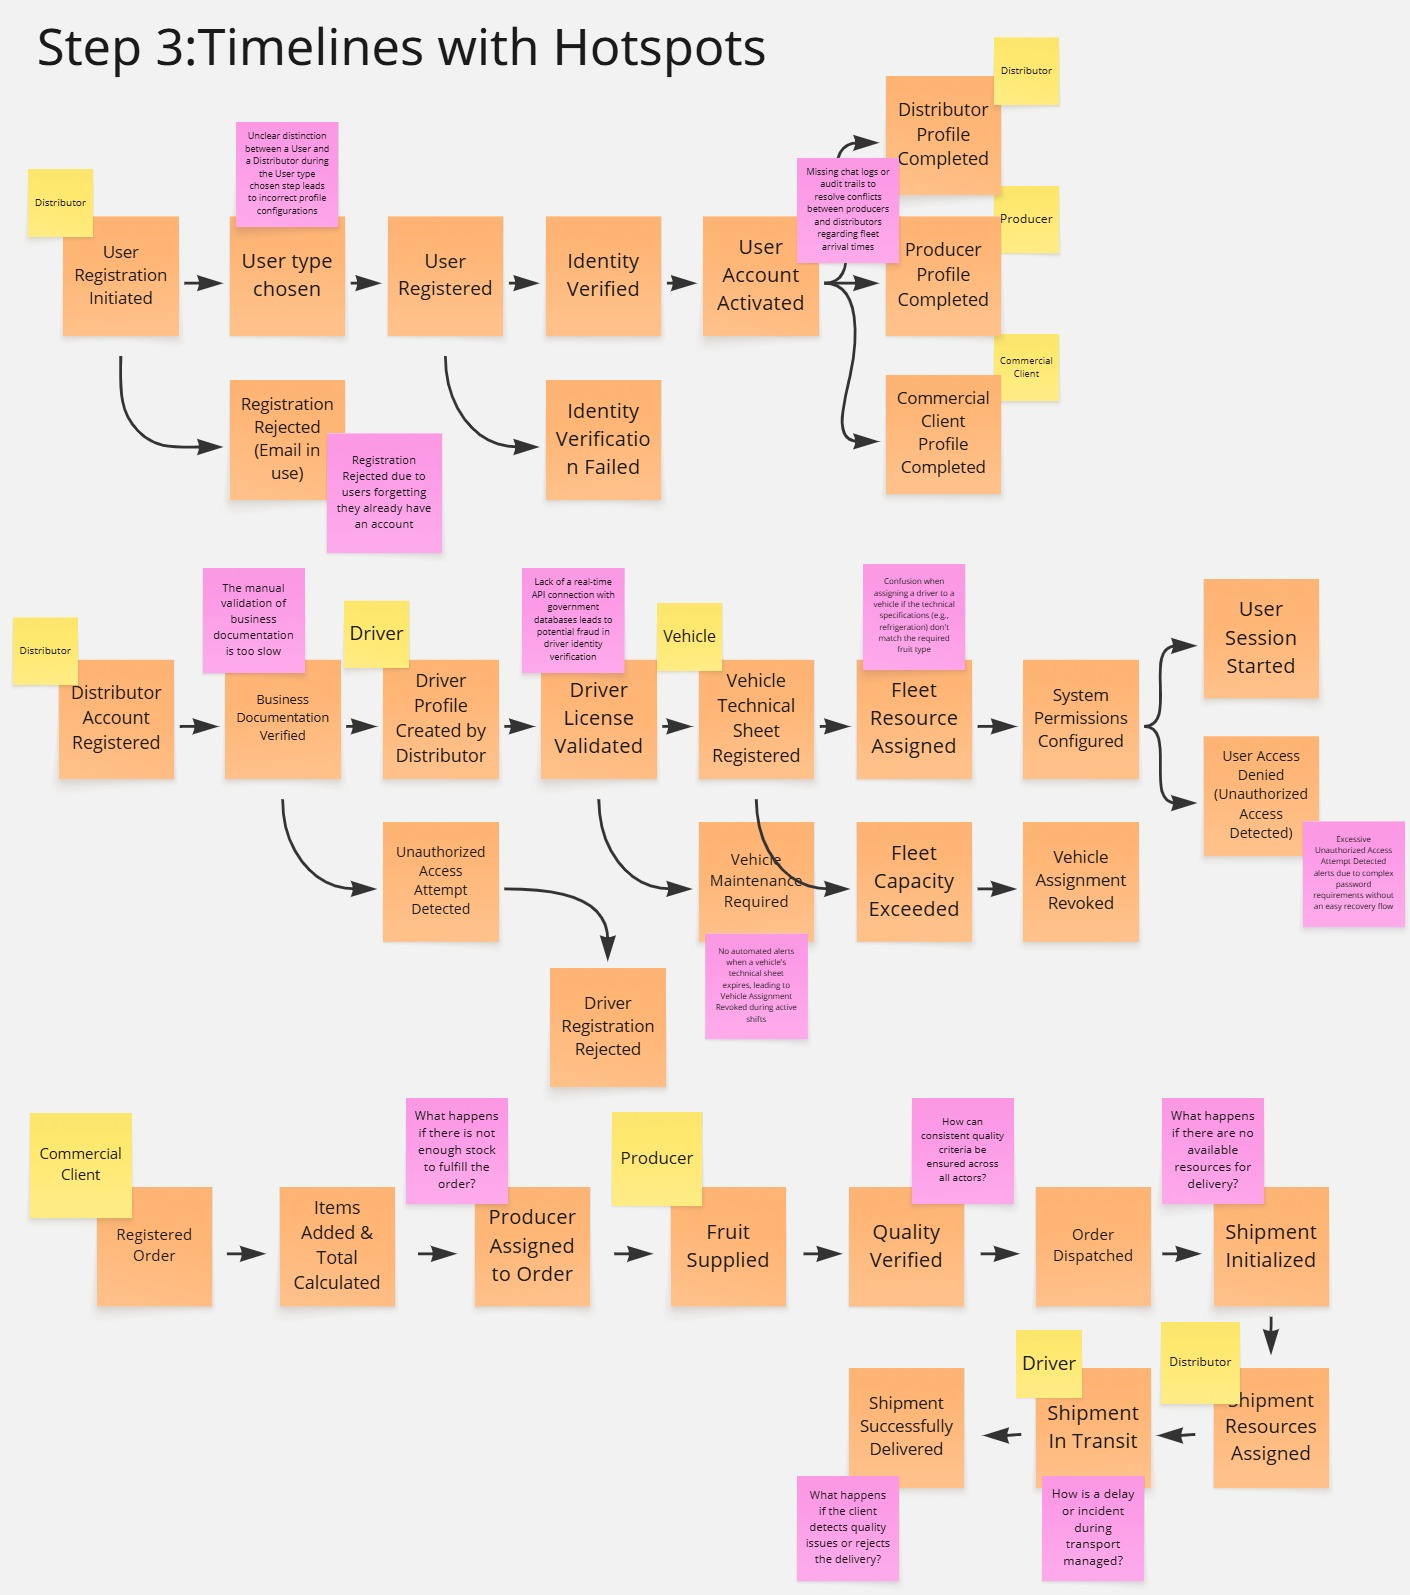
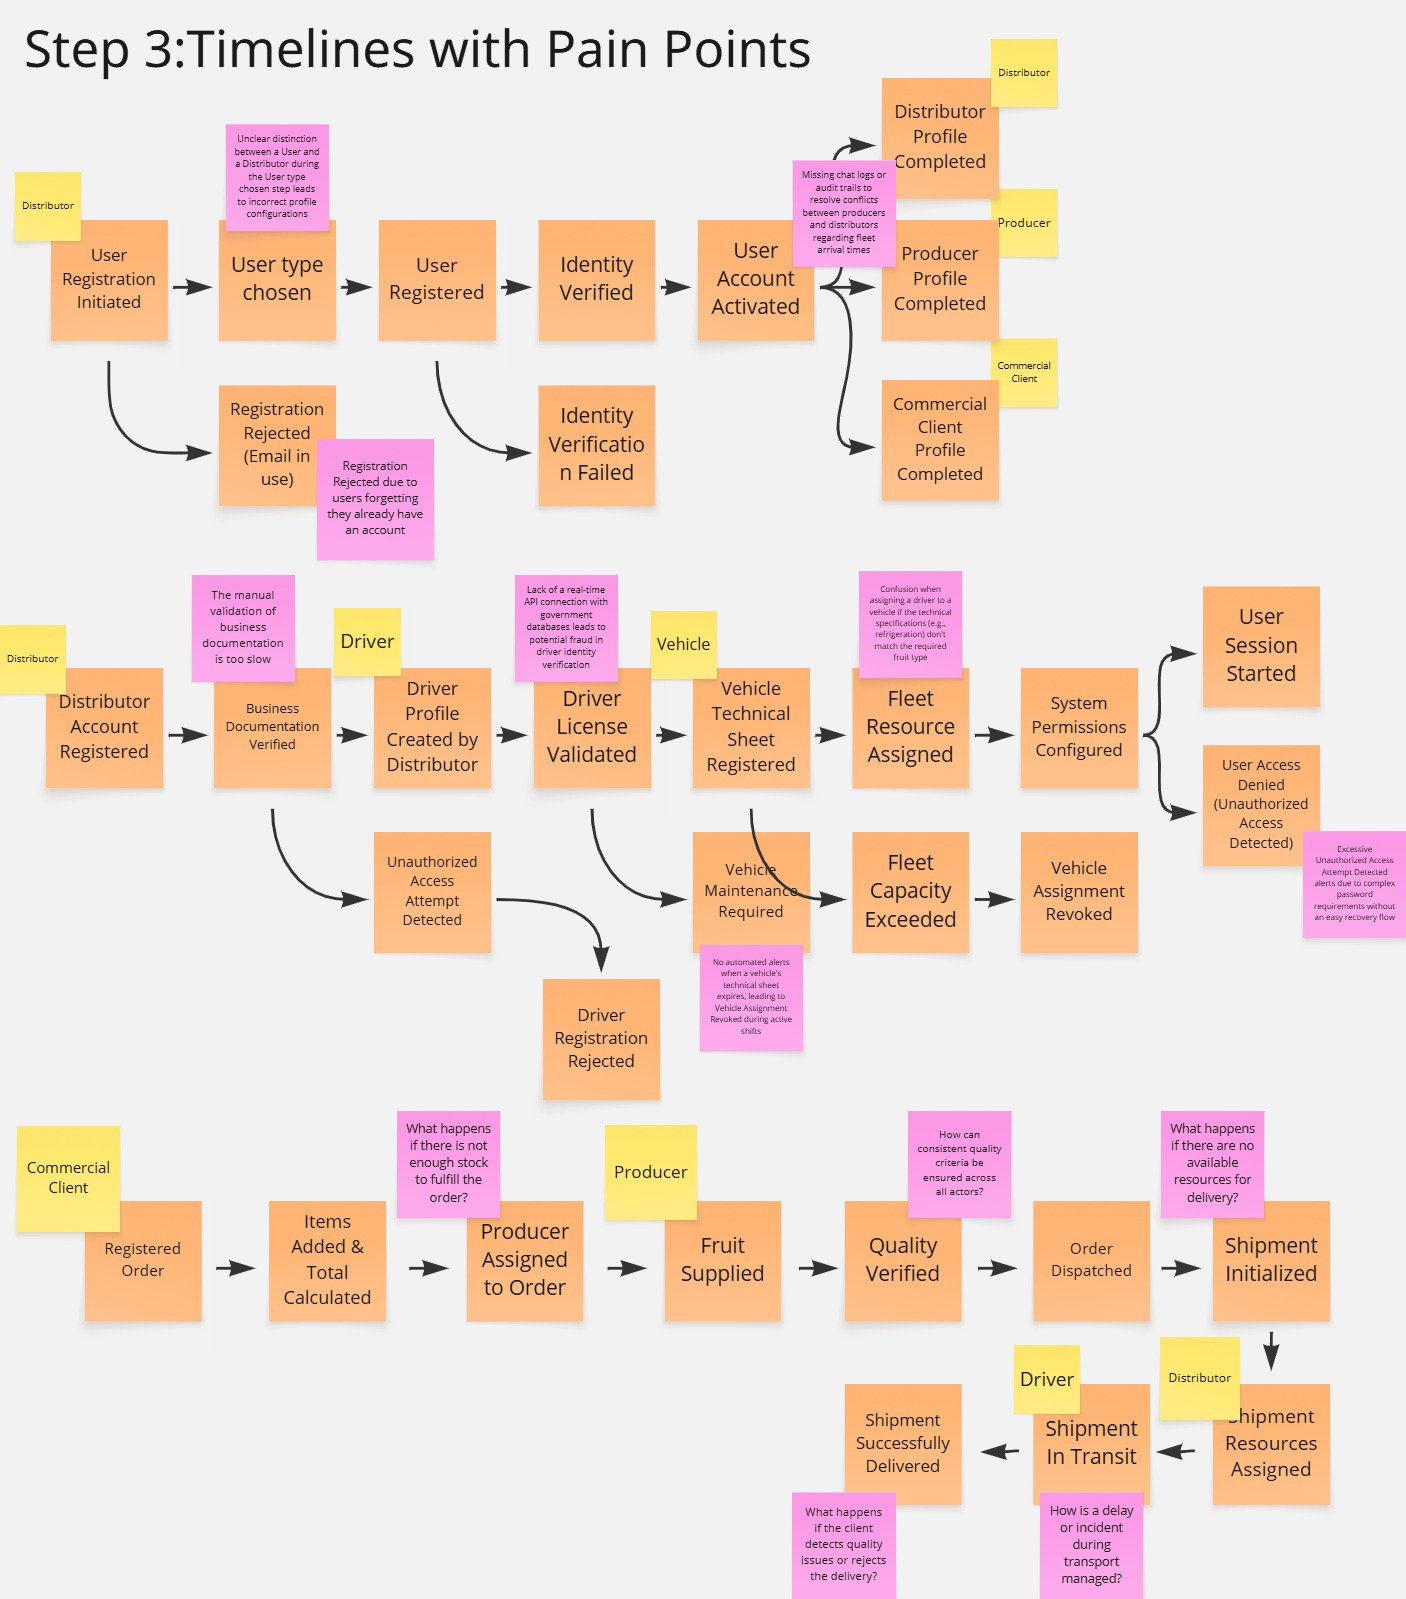
feat(25-chapter_2.5): Upload of EventStorming

diff --git a/report/front-matter/25-chapter_2.5.md b/report/front-matter/25-chapter_2.5.md
@@ -1,0 +1,128 @@
+### 2.5. Strategic-Level Domain-Driven Design
+
+#### 2.5.1. EventStorming
+
+Como parte del Strategic-Level Domain-Driven Design de FruitLogix, el equipo continuó el proceso de EventStorming iniciado previamente durante el Big Picture EventStorming. El propósito de esta etapa es profundizar progresivamente en el dominio, partiendo de los principales eventos del negocio para posteriormente identificar acciones, reglas, información requerida, sistemas externos, aggregates y límites relevantes dentro del modelo.
+
+Los primeros tres pasos corresponden a la exploración general desarrollada previamente, donde se identificaron los eventos del dominio, se organizaron en líneas de tiempo y se reconocieron los principales Pain Points. A partir de esta base, el modelo se refinó mediante Pivotal Points, Commands, Policies, Read Models, External Systems, Aggregates y finalmente Bounded Contexts.
+
+##### Step 1: Unstructured Exploration
+
+El proceso inició con una exploración desestructurada de los principales Eventos de Dominio de FruitLogix. En esta etapa se identificaron eventos relacionados con el registro y configuración de usuarios, la gestión de perfiles y flota, así como eventos del flujo central del negocio relacionados con pedidos, abastecimiento, control de calidad, despacho y entregas.
+
+Esta exploración permitió representar el dominio sin establecer inicialmente restricciones sobre el orden de los eventos o sobre los límites de los diferentes procesos.
+
+<img alt="EventStormingStep1" height="200%" src="../assets/miro/Big_Picture_Event_Storming_Paso1.jpg" width="500"/>
+
+##### Step 2: Timelines
+
+En el segundo paso, los Eventos de Dominio identificados fueron organizados cronológicamente para representar las principales historias del negocio. También se incorporaron los actores responsables o participantes en diferentes momentos del proceso, como Commercial Client, Distributor, Producer y Driver.
+
+La organización temporal permitió observar tanto los procesos relacionados con registro, perfiles y gestión de recursos, como el flujo principal que conecta la creación de un pedido con su abastecimiento, verificación de calidad, despacho, transporte y entrega.
+
+<img alt="EventStormingStep2" height="200%" src="../assets/miro/Big_Picture_Event_Storming_Paso2.jpg" width="550"/>
+
+##### Step 3: Timelines with Pain Points
+
+Una vez definidas las principales líneas de tiempo, se identificaron Pain Points asociados con situaciones problemáticas o incertidumbres relevantes del dominio. Entre ellos se encuentran dificultades relacionadas con validaciones manuales, disponibilidad de productos, consistencia de los criterios de calidad, disponibilidad de recursos logísticos, incidentes durante el transporte y posibles rechazos durante la entrega.
+
+La identificación de estos puntos permitió reconocer áreas del dominio que requerían mayor análisis antes de continuar con el refinamiento del EventStorm.
+
+<img alt="EventStormingStep3" height="200%" src="../assets/miro/Big_Picture_Event_Storming_Paso3.jpg" width="550"/>
+
+Los tres primeros pasos permitieron construir una visión general del dominio de FruitLogix. A partir de esta base, el equipo continuó el proceso de refinamiento mediante la identificación de Pivotal Points, que permiten reconocer cambios significativos dentro de los flujos analizados.
+
+##### Step 4: Pivotal Points
+
+En este paso se incorporaron Pivotal Points con el propósito de identificar momentos relevantes donde cambia la naturaleza o responsabilidad del proceso representado en el EventStorm. Estos puntos permiten comenzar a reconocer posibles límites naturales dentro del dominio sin definir todavía de manera definitiva los Bounded Contexts.
+
+En el flujo analizado se observa una transición desde el proceso general de registro, verificación de identidad y activación de la cuenta hacia procesos más específicos relacionados con la configuración de los perfiles de los diferentes actores. Posteriormente, el flujo continúa hacia responsabilidades particulares del distribuidor relacionadas con el registro de su cuenta y la administración de recursos logísticos, como conductores y vehículos.
+
+La identificación de estos cambios permite separar conceptualmente responsabilidades que, aunque colaboran dentro de FruitLogix, responden a necesidades diferentes del negocio. Estos Pivotal Points serán utilizados posteriormente como una de las evidencias para el proceso de Candidate Context Discovery.
+
+<img alt="EventStormingStep4" height="200%" src="../assets/miro/Big_Picture_Event_Storming_Paso4.jpg" width="650"/>
+
+##### Step 5: Commands
+
+En este paso se incorporaron Commands al EventStorm con el propósito de representar las acciones o intenciones que provocan cambios relevantes dentro del dominio. Estos elementos, representados mediante notas azules, permiten comprender qué acciones preceden a determinados Eventos de Dominio y ayudan a hacer explícitas las responsabilidades existentes dentro de los flujos analizados.
+
+En el proceso de registro y configuración de usuarios se identificaron Commands como `Register new User`, `Assign Role & Permissions` y `Validate Documentation`, los cuales se relacionan con eventos posteriores como `User Registration Initiated`, `User Registered` e `Identity Verified`. Asimismo, se incorporaron acciones específicas relacionadas con la creación y configuración de perfiles.
+
+En el flujo asociado a la gestión de recursos logísticos se identificaron Commands como `Add Driver to Fleet` y `Register Vehicle`. Estas acciones permiten relacionar las decisiones del distribuidor con eventos como `Driver Profile Created by Distributor` y `Vehicle Technical Sheet Registered`, haciendo más explícita la secuencia que permite incorporar conductores y vehículos a la operación.
+
+La incorporación de Commands permitió enriquecer el EventStorm al establecer una relación más clara entre las acciones realizadas por los actores y los cambios que ocurren posteriormente dentro del dominio. Este refinamiento sirve además como base para identificar las reglas y decisiones que serán representadas mediante Policies en el siguiente paso.
+
+<img alt="EventStormingStep5" height="200%" src="../assets/miro/Big_Picture_Event_Storming_Paso5.jpg" width="650"/>
+
+##### Step 6: Policies
+
+En este paso se incorporaron Policies al EventStorm con el propósito de representar reglas y condiciones que determinan cómo deben ejecutarse determinadas acciones dentro del dominio. Estas políticas, representadas mediante notas moradas, permiten hacer explícitas restricciones que deben cumplirse antes de que ciertos procesos puedan continuar.
+
+Dentro del flujo relacionado con la gestión de conductores se identificó la política `A Driver cannot be activated unless their LicenseNumber is verified and current`. Esta regla establece que un conductor no puede ser habilitado dentro de la operación si previamente no se ha comprobado que su licencia sea válida y se encuentre vigente, reforzando así la consistencia del proceso de incorporación de recursos de transporte.
+
+Asimismo, en el flujo de registro de vehículos se incorporó la política `Whenever a Vehicle is registered, its CapacityKg must be validated against the VehicleType standards`. Esta condición establece que, al registrar un vehículo, su capacidad debe ser validada de acuerdo con las características o restricciones correspondientes a su tipo antes de considerarlo disponible para la operación.
+
+La incorporación de Policies permitió complementar los Commands y Domain Events previamente identificados, haciendo explícitas reglas que condicionan el comportamiento del dominio. Estas reglas ayudan a comprender con mayor precisión las responsabilidades asociadas a la gestión de perfiles y recursos logísticos, y sirven como base para identificar posteriormente la información que los actores necesitan consultar mediante Read Models.
+
+<img alt="EventStormingStep6" height="200%" src="../assets/miro/Big_Picture_Event_Storming_Paso6.jpg" width="650"/>
+
+##### Step 7: Read Models
+
+En este paso se incorporaron Read Models al EventStorm con el propósito de representar la información que los actores necesitan consultar para comprender el estado actual del dominio y tomar decisiones durante los diferentes procesos. Estos elementos, representados mediante notas verdes, permiten visualizar qué información debe estar disponible a partir de los eventos y reglas previamente identificados.
+
+Dentro del proceso de incorporación de usuarios se identificó el Read Model `Registration Forms`, que reúne la información necesaria para iniciar y completar el registro de un nuevo usuario. Asimismo, se incorporó `Verification Status View`, que permite consultar el estado asociado al proceso de verificación de identidad y documentación.
+
+En el flujo relacionado con la gestión de recursos logísticos se identificó `Driver Profile Card`, que representa la información relevante de un conductor registrado dentro de la operación. También se incorporó `Fleet Management Dashboard`, orientado a proporcionar una vista consolidada sobre los recursos de flota y su situación dentro del proceso operativo.
+
+La incorporación de Read Models permitió complementar los Commands, Domain Events y Policies previamente identificados, mostrando qué información resulta necesaria para que los actores puedan continuar sus actividades y tomar decisiones. Este refinamiento contribuye a comprender mejor las necesidades de consulta del dominio antes de identificar las dependencias con sistemas externos en el siguiente paso.
+
+<img alt="EventStormingStep7" height="200%" src="../assets/miro/Big_Picture_Event_Storming_Paso7.jpg" width="650"/>
+
+##### Step 8: External Systems
+
+En este paso se incorporaron External Systems al EventStorm con el propósito de identificar dependencias externas que pueden participar en determinados procesos del dominio. Estos elementos permiten distinguir aquellas responsabilidades que requieren información o servicios proporcionados fuera de FruitLogix de las capacidades gestionadas directamente por la solución.
+
+Dentro del proceso relacionado con la identidad y autenticación de usuarios se modeló `Auth0 / Firebase Auth` como un servicio externo considerado durante el análisis para apoyar actividades relacionadas con el acceso y la seguridad de los usuarios.
+
+Asimismo, en el flujo relacionado con conductores y vehículos se identificó `Vehicle & License API` como una dependencia externa orientada a proporcionar información necesaria para la validación de licencias y características asociadas a los vehículos antes de su incorporación a la operación logística.
+
+Este refinamiento contribuye a delimitar con mayor claridad las responsabilidades internas y externas del sistema antes de continuar con la identificación de Aggregates.
+
+<img alt="EventStormingStep8" height="200%" src="../assets/miro/Big_Picture_Event_Storming_Paso8.jpg" width="650"/>
+
+##### Step 9: Aggregates
+
+En este paso se incorporaron Aggregates al EventStorm con el propósito de identificar conjuntos de elementos del dominio que deben mantenerse consistentes durante la ejecución de determinadas operaciones. Los Aggregates permiten comenzar a reconocer qué información y reglas deben ser gestionadas como una unidad dentro de los procesos analizados.
+
+En el flujo relacionado con la gestión de perfiles se identificó `Distributor` como Aggregate asociado a la información y responsabilidades del distribuidor dentro de la operación. Su incorporación permite relacionar la configuración de los diferentes perfiles y las acciones posteriores que dependen de la participación del distribuidor en FruitLogix.
+
+La identificación de este Aggregate constituye un refinamiento adicional del modelo, ya que permite pasar de una visión centrada únicamente en eventos, acciones y reglas hacia una representación donde también se consideran unidades de consistencia del dominio.
+
+Este paso no busca definir todavía de manera definitiva la estructura interna de cada Bounded Context. Los Aggregates identificados durante el EventStorming sirven como una de las evidencias utilizadas posteriormente para reconocer límites y responsabilidades dentro del dominio. Asimismo, otros Aggregates asociados a procesos como pedidos, calidad y logística son desarrollados con mayor detalle en los flujos específicos correspondientes a dichas áreas. Los demás elementos presentes en el diagrama se conservan como parte del modelado progresivo realizado durante las etapas anteriores.
+
+<img alt="EventStormingStep9" height="200%" src="../assets/miro/Big_Picture_Event_Storming_Paso9.jpg" width="650"/>
+
+##### Step 10: Bounded Contexts
+
+En el último paso del EventStorming se delimitaron los principales Bounded Contexts de FruitLogix a partir del refinamiento progresivo realizado mediante Domain Events, Commands, Policies, Read Models, External Systems y Aggregates. El objetivo de esta etapa fue reconocer grupos de responsabilidades que comparten un lenguaje, reglas y procesos relacionados dentro del dominio.
+
+Como resultado del análisis se identificaron siete Bounded Contexts principales:
+
+* **Profiles Management:** concentra las responsabilidades relacionadas con los perfiles de los diferentes actores que participan en FruitLogix y la información necesaria para su participación dentro del dominio.
+* **Fleet Management:** agrupa las responsabilidades asociadas con conductores, vehículos, documentación, capacidad y administración de los recursos de transporte utilizados durante las operaciones logísticas.
+* **Order Management:** comprende el ciclo de gestión de los pedidos, desde su registro y composición hasta la asignación de productores, abastecimiento y preparación para su posterior despacho.
+* **Payment Management:** reúne las responsabilidades relacionadas con facturación, pagos y demás procesos financieros asociados a las operaciones realizadas dentro de FruitLogix.
+* **Logistics and Monitoring:** concentra los procesos relacionados con la preparación y seguimiento de los envíos, asignación de recursos, transporte, tracking e incidencias que pueden ocurrir durante la entrega.
+* **Quality Control Context:** agrupa las actividades y reglas relacionadas con la inspección de productos y lotes, validación de criterios de calidad y registro de resultados o incidencias asociadas.
+* **Infrastructure & IoT:** reúne las responsabilidades relacionadas con dispositivos, sensores, telemetría y monitoreo de condiciones relevantes durante la operación logística.
+
+La identificación de estos Bounded Contexts representa el resultado del refinamiento realizado durante el EventStorming y constituye la base para el Candidate Context Discovery, donde se analizarán con mayor detalle sus límites, responsabilidades y relaciones dentro del dominio.
+
+<img alt="EventStormingStep10" height="200%" src="../assets/miro/Big_Picture_Event_Storming_Paso10.jpg" width="650"/>
+
+##### Resultados del EventStorming
+
+El proceso de EventStorming permitió evolucionar desde una exploración general de los principales eventos del dominio hacia una representación progresivamente más detallada de las acciones, reglas, información requerida, dependencias externas, Aggregates y límites existentes dentro de FruitLogix.
+
+A través de los diez pasos realizados se obtuvo una visión compartida de los principales procesos del dominio y se identificaron siete Bounded Contexts que permiten organizar las responsabilidades del dominio de FruitLogix. Estos resultados serán utilizados como entrada para el Candidate Context Discovery, donde se evaluará con mayor profundidad la delimitación y relación entre los contextos identificados.
+
